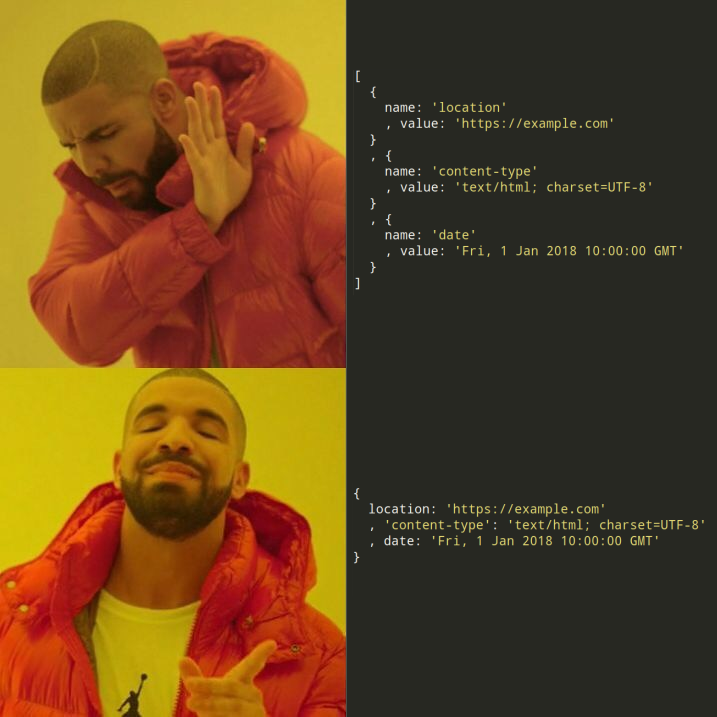
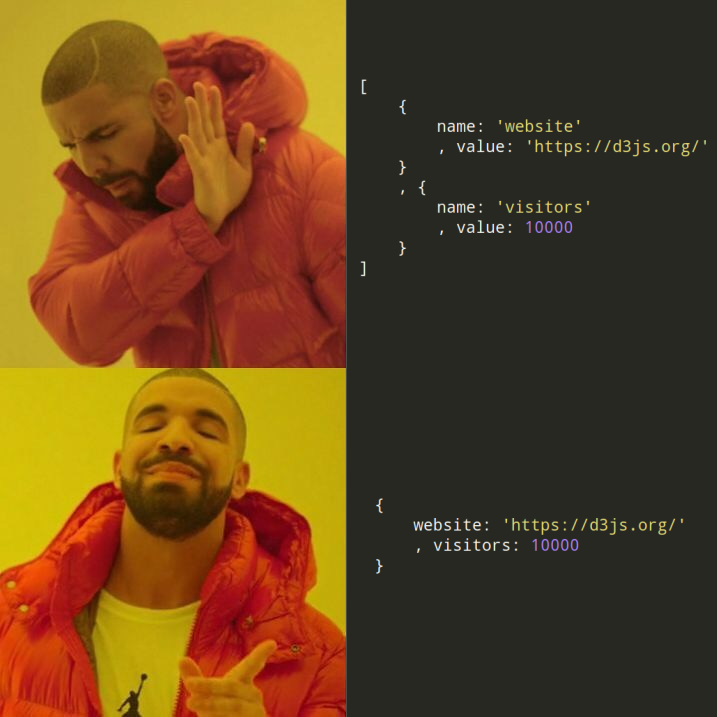
update documentation

diff --git a/README.md b/README.md
@@ -1,18 +1,17 @@
 # pivot-keyvalues [![Build Status](https://travis-ci.org/Mango-information-systems/pivot-keyvalues.svg?branch=master)](https://travis-ci.org/Mango-information-systems/pivot-keyvalues)
 
-pivot JSON key / value array properties to actual objects.
+pivot an array of keys and value entries into actual objects.
 
-Example: `{name: 'location', value: 'https://example.com'}` → `{location: 'https://example.com'}`
+Example: `[{name: 'url', value: 'https://d3js.org'}]` → `{url: 'https://d3js.org'}`
 
 ## Why
 
 Converting arrays of keys / values into objects has the following benefits:
 
-* values can be looked up by key, instead of having to iterate through an array.
+* values can be looked up by key, instead of having to iterate through the array (likely multiple times).
 * the data structure is more compact.
 
 ![Why-pivot](/docs/why-pivot-keyvalues.png?raw=true)
-
 
 ## Setup
 
@@ -20,52 +19,83 @@ Converting arrays of keys / values into objects has the following benefits:
 
 ## Usage
 
+### pivot(data, options <small>nullable</small>) → {object}
 
-### `nestedPath` option
+#### Parameters
 
-This option allows to pivot an array deeply nested inside an object. Use dots notation.
+* `data` object containing an array of data to be pivoted - either at root level, or nested.
+* `options` object (optional):
+  * `keyName` string - default to 'name'
+  * `valueName` string - default to 'value'
+  * `nestedPath` string - level at which the reverse pivot is expected to be done. Use dots notation.
 
 
-Example: 
+#### Return
+
+Original object with transformed data structure: array is transformed into an object
+
+#### Examples
+
+
+##### specifying the labels of input properties with `keyName` and `valueName`
+
 
 ````javascript
 
 const pivot = require('pivot-keyvalues')
 
-let data = {
-	headers: [
-		{
-			name: 'location'
-			, value: 'https://example.com'
-		}
-		, {
-			name: 'content-type'
-			, value: 'text/html; charset=UTF-8'
-		}
-		, {
-			name: 'date'
-			, value: 'Fri, 1 Jan 2018 10:00:00 GMT'
-		}
-	]
-	, body: {
-		// [...]
+let dataset =[
+	{
+		title: 'website'
+		, data: 'https://d3js.org/'
 	}
-	
-}
+	, {
+		title: 'visitors'
+		, data: 10000
+	}
+]
 
+pivot(dataset, { keyName: 'title', valueName: 'data' })
 
-pivot(data, { nestedPath: 'headers' })
-
-// returns
+// Returns
+//
 // {
-// 	headers: {
-//		location: 'https://example.com'
-// 	    , 'content-type': 'text/html; charset=UTF-8'
-// 	    , date: 'Fri, 1 Jan 2018 10:00:00 GMT'
-// 	}
-// 	, body: {
-// 		// [...]
-// 	}
+// 	website: 'https://d3js.org/'
+// 	, visitors: 10000
 // }
+
+````
+
+##### pivoting at a deep nested level with `nestedPath`
+
+In the example below, the dataset to pivot is nested under `analytics.summary` property structure.
+
+````javascript
+
+let dataset =
+	{
+		analytics: {
+			details: 'something'
+			, summary: [
+				{
+					name: 'website'
+					, value: 'http://stackoverflow.com/'
+				}
+				, {
+					name: 'visitors'
+					, value: 10000
+				}
+			]
+		}
+	}
+
+pivot(dataset, { nestedPath: 'analytics.summary' })
+
+// Returns
+//
+// {
+// 	website: 'http://stackoverflow.com/'
+// 	, visitors: 10000
+// })
 
 ````
